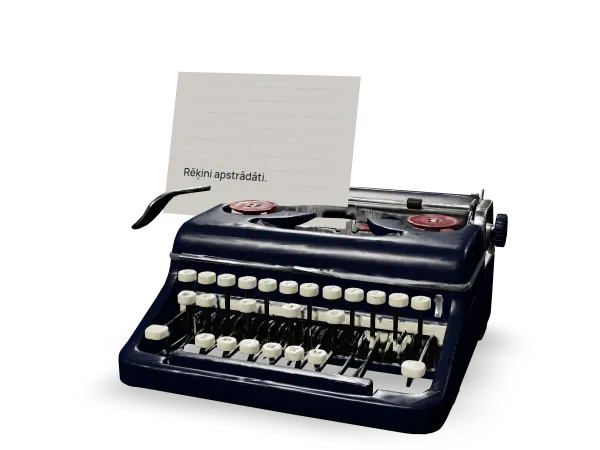
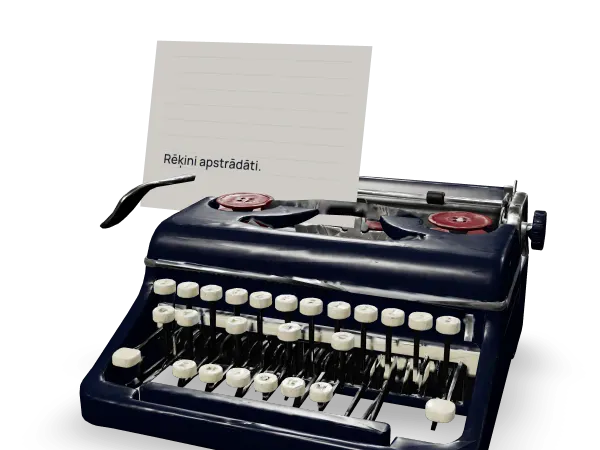
Hero: cropped wordmark, scroll-driven typewriter sequence into the ink room
The hero is a 200vh room with a sticky stage on desktop; scroll progress
dollies the camera back, turns the machine, opens the wordmark's tracking
and darkens the room. Static everywhere else. Tooling overrides let
automation see motion; hero e2e covers 1440x900, 1280x700 and reduced
motion at 1024.

Claude-Session: https://claude.ai/code/session_01DgJzwKfM5SuSpGZs29WHsr

diff --git a/src/components/hero/HeroSection.tsx b/src/components/hero/HeroSection.tsx
@@ -1,13 +1,17 @@
-import React, { Suspense, lazy, useCallback, useState } from 'react';
+import React, { Suspense, lazy, useCallback, useEffect, useRef, useState } from 'react';
 import { Link } from 'react-router-dom';
 import { trackCTAClick } from '@/lib/analytics';
 import { useHeroMode } from './useHeroMode';
+import { usePinnedProgress } from '@/components/motion/usePinnedProgress';
+import { isStaticMotion } from '@/components/motion/motionPrefs';
+import Wordmark from './Wordmark';
 
 const TypewriterScene = lazy(() => import('./TypewriterScene'));
 
 const IMAGE_SRC = '/images/hero-typewriter.webp';
 const IMAGE_SRC_600 = '/images/hero-typewriter-600.webp';
 const IMAGE_ALT = 'Rakstāmmašīna, kas raksta: rēķini apstrādāti';
+const PIN_MIN_WIDTH = 1024;
 
 /* A failed chunk or GLB load must not take the page down: report and show the image. */
 class SceneErrorBoundary extends React.Component<{ onError: () => void; children: React.ReactNode }, { failed: boolean }> {
@@ -24,7 +28,7 @@ class SceneErrorBoundary extends React.Component<{ onError: () => void; children
   }
 }
 
-function HeroVisual() {
+function HeroVisual({ scroll }: { scroll: { current: number } }) {
   const mode = useHeroMode();
   const [ready, setReady] = useState(false);
   const [lost, setLost] = useState(false);
@@ -33,11 +37,11 @@ function HeroVisual() {
   const show3d = mode === '3d' && !lost;
 
   return (
-    <div className="relative aspect-[4/3] w-full" data-hero-mode={show3d ? '3d' : 'image'} data-hero-ready={ready ? '1' : '0'}>
+    <div className="hero-visual" data-hero-mode={show3d ? '3d' : 'image'} data-hero-ready={ready ? '1' : '0'}>
       <img
         src={IMAGE_SRC}
         srcSet={`${IMAGE_SRC_600} 600w, ${IMAGE_SRC} 1200w`}
-        sizes="(min-width: 1024px) 50vw, 100vw"
+        sizes="(min-width: 1024px) 60vw, 100vw"
         alt={IMAGE_ALT}
         width={1200}
         height={900}
@@ -50,7 +54,7 @@ function HeroVisual() {
         <div className="absolute inset-0 transition-opacity duration-300" style={{ opacity: ready ? 1 : 0 }} aria-hidden="true">
           <SceneErrorBoundary onError={onLost}>
             <Suspense fallback={null}>
-              <TypewriterScene onReady={onReady} onContextLost={onLost} />
+              <TypewriterScene scroll={scroll} onReady={onReady} onContextLost={onLost} />
             </Suspense>
           </SceneErrorBoundary>
         </div>
@@ -71,38 +75,60 @@ function CaptureStage() {
   );
 }
 
+/*
+  The first room. On a desktop without reduced motion the room is 200vh tall
+  and its stage sticks: scrolling dollies the camera back, turns the machine,
+  opens the wordmark's tracking and darkens the room to ink. Everywhere else
+  the room is a plain stack in its final state.
+*/
 const HeroSection = () => {
   const mode = useHeroMode();
+  const [pinned, setPinned] = useState(false);
+  const stage = useRef<HTMLDivElement>(null);
+
+  useEffect(() => {
+    const decide = () => setPinned(!isStaticMotion() && window.innerWidth >= PIN_MIN_WIDTH);
+    decide();
+    const mq = window.matchMedia(`(min-width: ${PIN_MIN_WIDTH}px)`);
+    mq.addEventListener('change', decide);
+    return () => mq.removeEventListener('change', decide);
+  }, []);
+
+  const onUpdate = useCallback((p: number) => {
+    const el = stage.current;
+    if (!el) return;
+    el.style.setProperty('--p', p.toFixed(4));
+    el.style.setProperty('--p-ink', Math.min(1, Math.max(0, (p - 0.7) / 0.3)).toFixed(4));
+    el.style.setProperty('--p-fade', Math.min(1, Math.max(0, p / 0.3)).toFixed(4));
+  }, []);
+  const onTenth = useCallback((tenth: number) => {
+    stage.current?.parentElement?.setAttribute('data-hero-progress', tenth.toFixed(1));
+  }, []);
+  const [wrapper, progress] = usePinnedProgress<HTMLElement>(pinned, onTenth, onUpdate);
+
   if (mode === 'capture') return <CaptureStage />;
 
   return (
-    <section className="wrap pt-10 pb-16 sm:pt-14 lg:pt-16 lg:pb-24">
-      <div className="grid gap-10 lg:gap-12 lg:grid-cols-12 lg:items-center">
-        <div className="lg:col-span-6">
-          <h1 className="display-1 m-0 max-w-[11em]">
-            AI automatizācija darbiem, kas birojā atkārtojas katru dienu
-          </h1>
-
-          <p className="lede mt-6 lg:mt-8 text-foreground">
-            Rēķinu ievade, līgumu sagatavošana, atbildes uz klientu jautājumiem. Uzbūvējam sistēmu, kas šos
-            darbus izdara pati, un pieslēdzam to programmām, kuras jau lietojat.
+    <section ref={wrapper} className={`hero-wrap ${pinned ? 'is-pinned' : ''}`} data-hero-progress="0.0">
+      <div ref={stage} className="hero-stage">
+        <div className="hero-cluster wrap">
+          <p className="label m-0">AI automatizācija uzņēmumiem</p>
+          <h1 className="display-1 m-0 mt-4 max-w-[14em]">Darbi, kas birojā atkārtojas, izdarīti paši.</h1>
+          <p className="m-0 mt-4 text-[0.9375rem] text-muted-foreground">
+            <span className="font-medium text-foreground">Kleen1</span> · līgums no 20 minūtēm līdz 3
           </p>
-
-          <div className="mt-8 flex flex-col sm:flex-row gap-3">
+          <div className="mt-6 flex flex-wrap justify-center gap-3">
             <Link to="/contact" onClick={() => trackCTAClick('bezmaksas_konsultacija', 'hero')} className="btn btn-solid">
-              Pieteikt bezmaksas konsultāciju
+              Pieteikt konsultāciju
             </Link>
             <Link to="/portfolio" onClick={() => trackCTAClick('skatit_darbus', 'hero')} className="btn btn-line">
-              Skatīt paveiktos darbus
+              Paveiktie darbi
             </Link>
           </div>
-
-          <p className="mt-4 mb-0 text-muted-foreground">Konsultācija ir bez maksas un bez saistībām.</p>
         </div>
 
-        <div className="lg:col-span-6">
-          <HeroVisual />
-        </div>
+        <Wordmark />
+        <HeroVisual scroll={progress} />
       </div>
     </section>
   );

diff --git a/src/components/hero/TypewriterScene.tsx b/src/components/hero/TypewriterScene.tsx
@@ -9,22 +9,35 @@ import { useTypingLoop } from './useTypingLoop';
 export interface TypewriterSceneProps {
   /* first line fully typed, no animation (fallback capture, reduced motion) */
   staticLine?: boolean;
+  /* 0..1 scroll progress of the pinned hero; the camera dollies back and the machine turns */
+  scroll?: { current: number };
   onReady?: () => void;
   onContextLost?: () => void;
 }
 
 const MAX_YAW = THREE.MathUtils.degToRad(8);
 const MAX_PITCH = THREE.MathUtils.degToRad(4);
+const BASE_YAW = -0.35;
+const SCROLL_YAW = 1.55; // ends seen from the side
+const CAMERA_Z = 4.4;
+const SCROLL_DOLLY = 2.6; // camera ends at z 7.0
+const LOOK_AT = new THREE.Vector3(0, 0.85, 0);
 
-function Rig({ pointer, staticLine, onReady }: { pointer: React.MutableRefObject<{ x: number; y: number }>; staticLine: boolean; onReady?: () => void }) {
+function Rig({ pointer, scroll, staticLine, onReady }: { pointer: React.MutableRefObject<{ x: number; y: number }>; scroll?: { current: number }; staticLine: boolean; onReady?: () => void }) {
   const group = useRef<THREE.Group>(null);
   const loop = useTypingLoop(staticLine);
   const readyRef = useRef(false);
 
   useFrame((state, delta) => {
     if (!group.current) return;
-    group.current.rotation.y = THREE.MathUtils.damp(group.current.rotation.y, -0.35 + pointer.current.x * MAX_YAW, 6, delta);
+    const p = scroll?.current ?? 0;
+    group.current.rotation.y = THREE.MathUtils.damp(group.current.rotation.y, BASE_YAW + SCROLL_YAW * p + pointer.current.x * MAX_YAW, 6, delta);
     group.current.rotation.x = THREE.MathUtils.damp(group.current.rotation.x, 0.08 - pointer.current.y * MAX_PITCH, 6, delta);
+    const z = CAMERA_Z + SCROLL_DOLLY * p;
+    if (Math.abs(state.camera.position.z - z) > 0.0005) {
+      state.camera.position.z = z;
+      state.camera.lookAt(LOOK_AT);
+    }
     if (!readyRef.current && state.clock.elapsedTime > 0.05) {
       readyRef.current = true;
       onReady?.();
@@ -50,7 +63,7 @@ function ContextLossWatcher({ onLost }: { onLost?: () => void }) {
   return null;
 }
 
-export default function TypewriterScene({ staticLine = false, onReady, onContextLost }: TypewriterSceneProps) {
+export default function TypewriterScene({ staticLine = false, scroll, onReady, onContextLost }: TypewriterSceneProps) {
   const pointer = useRef({ x: 0, y: 0 });
   const wrapper = useRef<HTMLDivElement>(null);
   const [inView, setInView] = useState(true);
@@ -76,7 +89,7 @@ export default function TypewriterScene({ staticLine = false, onReady, onContext
     >
       <Canvas
         dpr={[1, 1.75]}
-        camera={{ position: [0, 1.75, 5.3], fov: 30 }}
+        camera={{ position: [0, 1.75, CAMERA_Z], fov: 30 }}
         frameloop={inView ? 'always' : 'never'}
         gl={{ alpha: true, antialias: true, powerPreference: 'low-power' }}
         onCreated={({ gl, camera }) => { gl.setClearColor(0x000000, 0); camera.lookAt(0, 0.85, 0); }}
@@ -87,7 +100,7 @@ export default function TypewriterScene({ staticLine = false, onReady, onContext
         <directionalLight position={[3, 2, -2]} intensity={0.6} />
         <directionalLight position={[0, 3, -4]} intensity={1.2} color="#f6f5f0" />
         <Suspense fallback={null}>
-          <Rig pointer={pointer} staticLine={staticLine} onReady={onReady} />
+          <Rig pointer={pointer} scroll={scroll} staticLine={staticLine} onReady={onReady} />
           <ContactShadows position={[0, -0.005, 0]} opacity={0.45} scale={6} blur={2.2} far={2} resolution={256} frames={1} />
         </Suspense>
         <ContextLossWatcher onLost={onContextLost} />

diff --git a/src/index.css b/src/index.css
@@ -565,3 +565,101 @@
     display: none;
   }
 }
+
+/* Hero room. --p is the pinned scroll progress (0..1), set by HeroSection each frame. */
+.hero-wrap {
+  position: relative;
+  --p: 0;
+  --p-ink: 0;
+  --p-fade: 0;
+}
+
+.hero-wrap.is-pinned {
+  height: 200vh;
+}
+
+.hero-stage {
+  position: relative;
+  min-height: calc(100vh - 3.5rem);
+  overflow: hidden;
+  background: color-mix(in srgb, hsl(var(--ink)) calc(var(--p-ink) * 100%), hsl(var(--background)));
+}
+
+.hero-wrap.is-pinned .hero-stage {
+  position: sticky;
+  top: 3.5rem;
+  height: calc(100vh - 3.5rem);
+}
+
+.hero-cluster {
+  position: relative;
+  z-index: 3;
+  padding-top: clamp(1.5rem, 5vh, 3.5rem);
+  text-align: center;
+  opacity: calc(1 - var(--p-fade));
+  transform: translateY(calc(var(--p-fade) * -1.5rem));
+}
+
+.hero-cluster > * {
+  margin-inline: auto;
+}
+
+/* The wordmark sits on the floor of the room, cropped at both edges and at the baseline. */
+.wordmark-frame {
+  position: absolute;
+  left: 0;
+  right: 0;
+  bottom: 0;
+  z-index: 1;
+  display: flex;
+  justify-content: center;
+  overflow: visible;
+  font-size: 22vw;
+  line-height: 0.84;
+  pointer-events: none;
+}
+
+.wordmark {
+  display: block;
+  transform: translateY(0.1em);
+  letter-spacing: calc(-0.035em + var(--p) * 0.115em);
+  color: color-mix(in srgb, hsl(var(--ink-foreground)) calc(var(--p-ink) * 100%), color-mix(in srgb, hsl(var(--muted-foreground)) calc(var(--p) * 100%), hsl(var(--foreground))));
+}
+
+/* The machine stands on the letters: its box ends a third of the way up the wordmark. */
+.hero-visual {
+  position: absolute;
+  left: 50%;
+  bottom: calc(22vw * 0.84 * 0.36);
+  z-index: 2;
+  height: min(36vw, 52vh);
+  aspect-ratio: 4 / 3;
+  transform: translateX(-50%);
+}
+
+@media (max-width: 1023px) {
+  .hero-stage {
+    min-height: 0;
+    padding-bottom: calc(22vw * 0.84 * 0.9);
+  }
+
+  .hero-visual {
+    position: relative;
+    left: auto;
+    bottom: auto;
+    transform: none;
+    height: auto;
+    width: min(92vw, 34rem);
+    margin: 1rem auto calc(-22vw * 0.84 * 0.5);
+  }
+}
+
+@supports not (color: color-mix(in srgb, red, blue)) {
+  .hero-stage {
+    background: hsl(var(--background));
+  }
+
+  .wordmark {
+    color: hsl(var(--foreground));
+  }
+}

diff --git a/src/components/motion/usePinnedProgress.ts b/src/components/motion/usePinnedProgress.ts
@@ -8,12 +8,13 @@ export interface PinnedProgress {
 
 /*
   Scroll progress through a tall wrapper whose child is sticky. The value
-  lives in a ref so a canvas or a style can read it every frame. `onChange`
-  is called with the value rounded to a tenth, for the rare React-side use.
+  lives in a ref so a canvas or a style can read it every frame. `onUpdate`
+  runs on every scroll frame; `onChange` only when the tenth changes.
 */
 export function usePinnedProgress<T extends HTMLElement>(
   enabled: boolean,
   onChange?: (tenth: number) => void,
+  onUpdate?: (progress: number) => void,
 ): [React.RefObject<T>, PinnedProgress] {
   const ref = useRef<T>(null);
   const progress = useRef<PinnedProgress>({ current: 0 }).current;
@@ -22,7 +23,7 @@ export function usePinnedProgress<T extends HTMLElement>(
   useEffect(() => {
     const el = ref.current;
     if (!enabled || !el || isStaticMotion()) {
-      progress.current = enabled ? 0 : 1;
+      progress.current = 0;
       return;
     }
     let raf = 0;
@@ -30,6 +31,7 @@ export function usePinnedProgress<T extends HTMLElement>(
       raf = 0;
       const r = el.getBoundingClientRect();
       progress.current = pinnedProgress(r.top, r.height, window.innerHeight);
+      onUpdate?.(progress.current);
       const tenth = Math.round(progress.current * 10) / 10;
       if (tenth !== lastTenth.current) {
         lastTenth.current = tenth;
@@ -47,7 +49,7 @@ export function usePinnedProgress<T extends HTMLElement>(
       window.removeEventListener('resize', onScroll);
       if (raf) cancelAnimationFrame(raf);
     };
-  }, [enabled, onChange, progress]);
+  }, [enabled, onChange, onUpdate, progress]);
 
   return [ref, progress];
 }

diff --git a/src/components/motion/motionPrefs.ts b/src/components/motion/motionPrefs.ts
@@ -6,8 +6,11 @@
 
 export function isStaticMotion(): boolean {
   if (typeof window === 'undefined') return true;
-  if (navigator.webdriver === true) return true;
-  return window.matchMedia('(prefers-reduced-motion: reduce)').matches;
+  if (window.matchMedia('(prefers-reduced-motion: reduce)').matches) return true;
+  // tooling (screenshots, e2e) can ask automation to behave like a visitor
+  const params = new URLSearchParams(window.location.search);
+  const override = params.get('motion') === 'on' || params.get('hero') === '3d';
+  return navigator.webdriver === true && !override;
 }
 
 export function splitWords(text: string): string[] {

diff --git a/src/components/hero/Wordmark.tsx b/src/components/hero/Wordmark.tsx
@@ -1,0 +1,14 @@
+import React from 'react';
+
+/*
+  The brand set so large it leaves the viewport on both sides. Decorative:
+  the real heading is in the hero cluster. Letter-spacing and colour are
+  driven by the hero's scroll progress through CSS custom properties.
+*/
+export default function Wordmark({ text = 'automatizācija' }: { text?: string }) {
+  return (
+    <div className="wordmark-frame" aria-hidden="true">
+      <div className="wordmark">{text}</div>
+    </div>
+  );
+}
